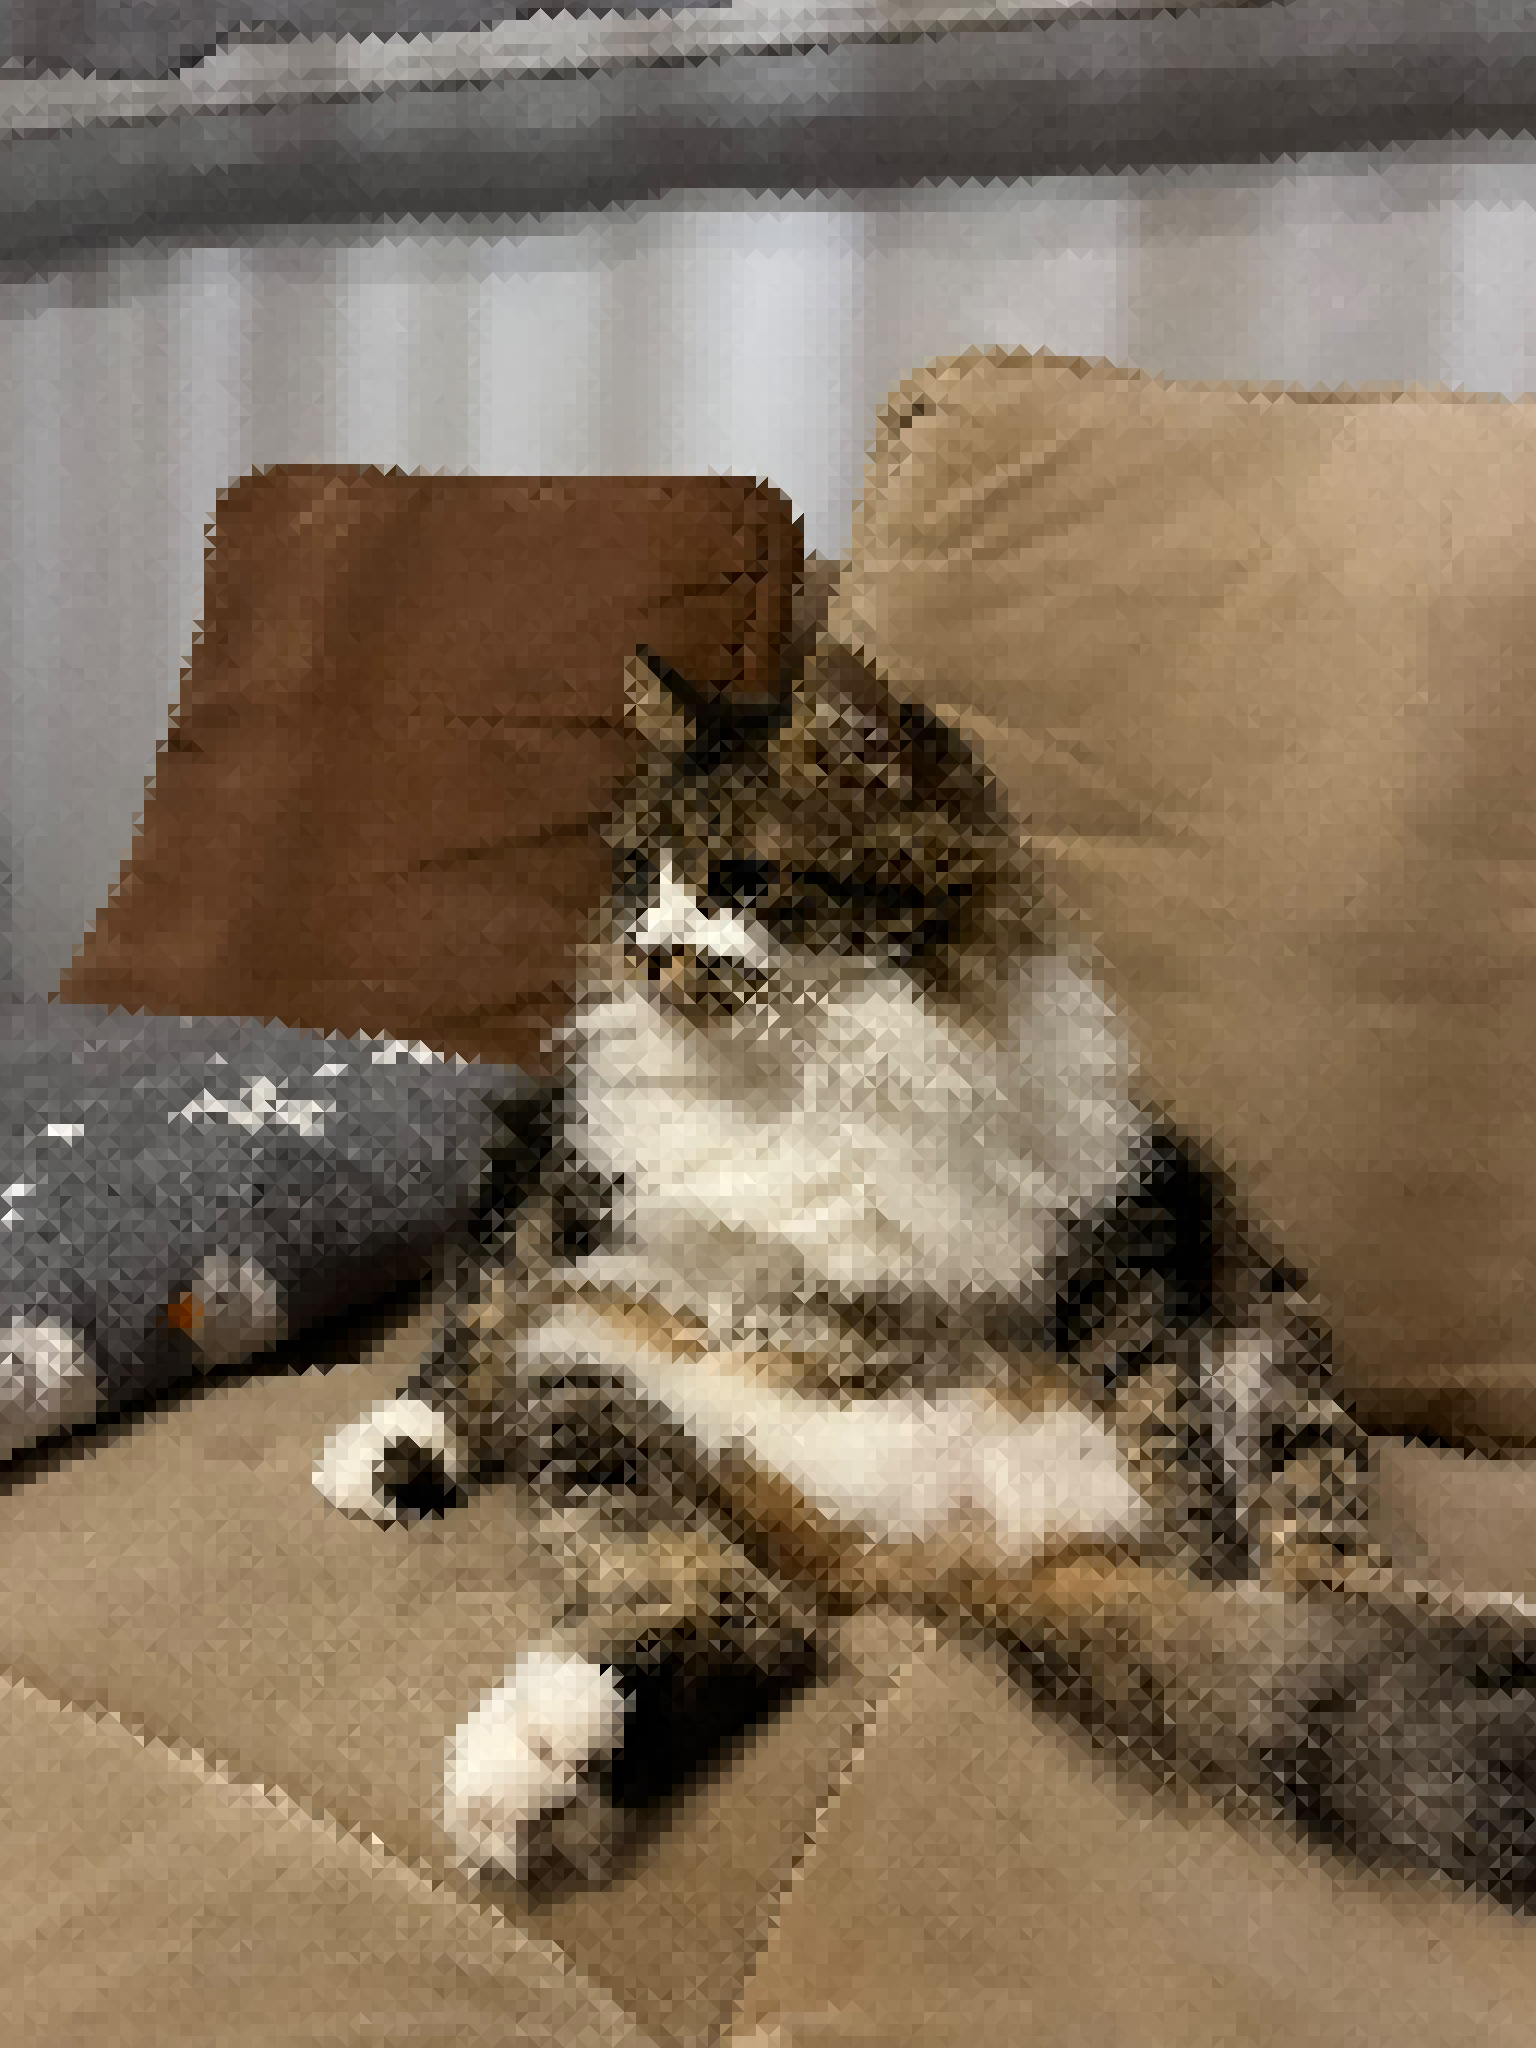
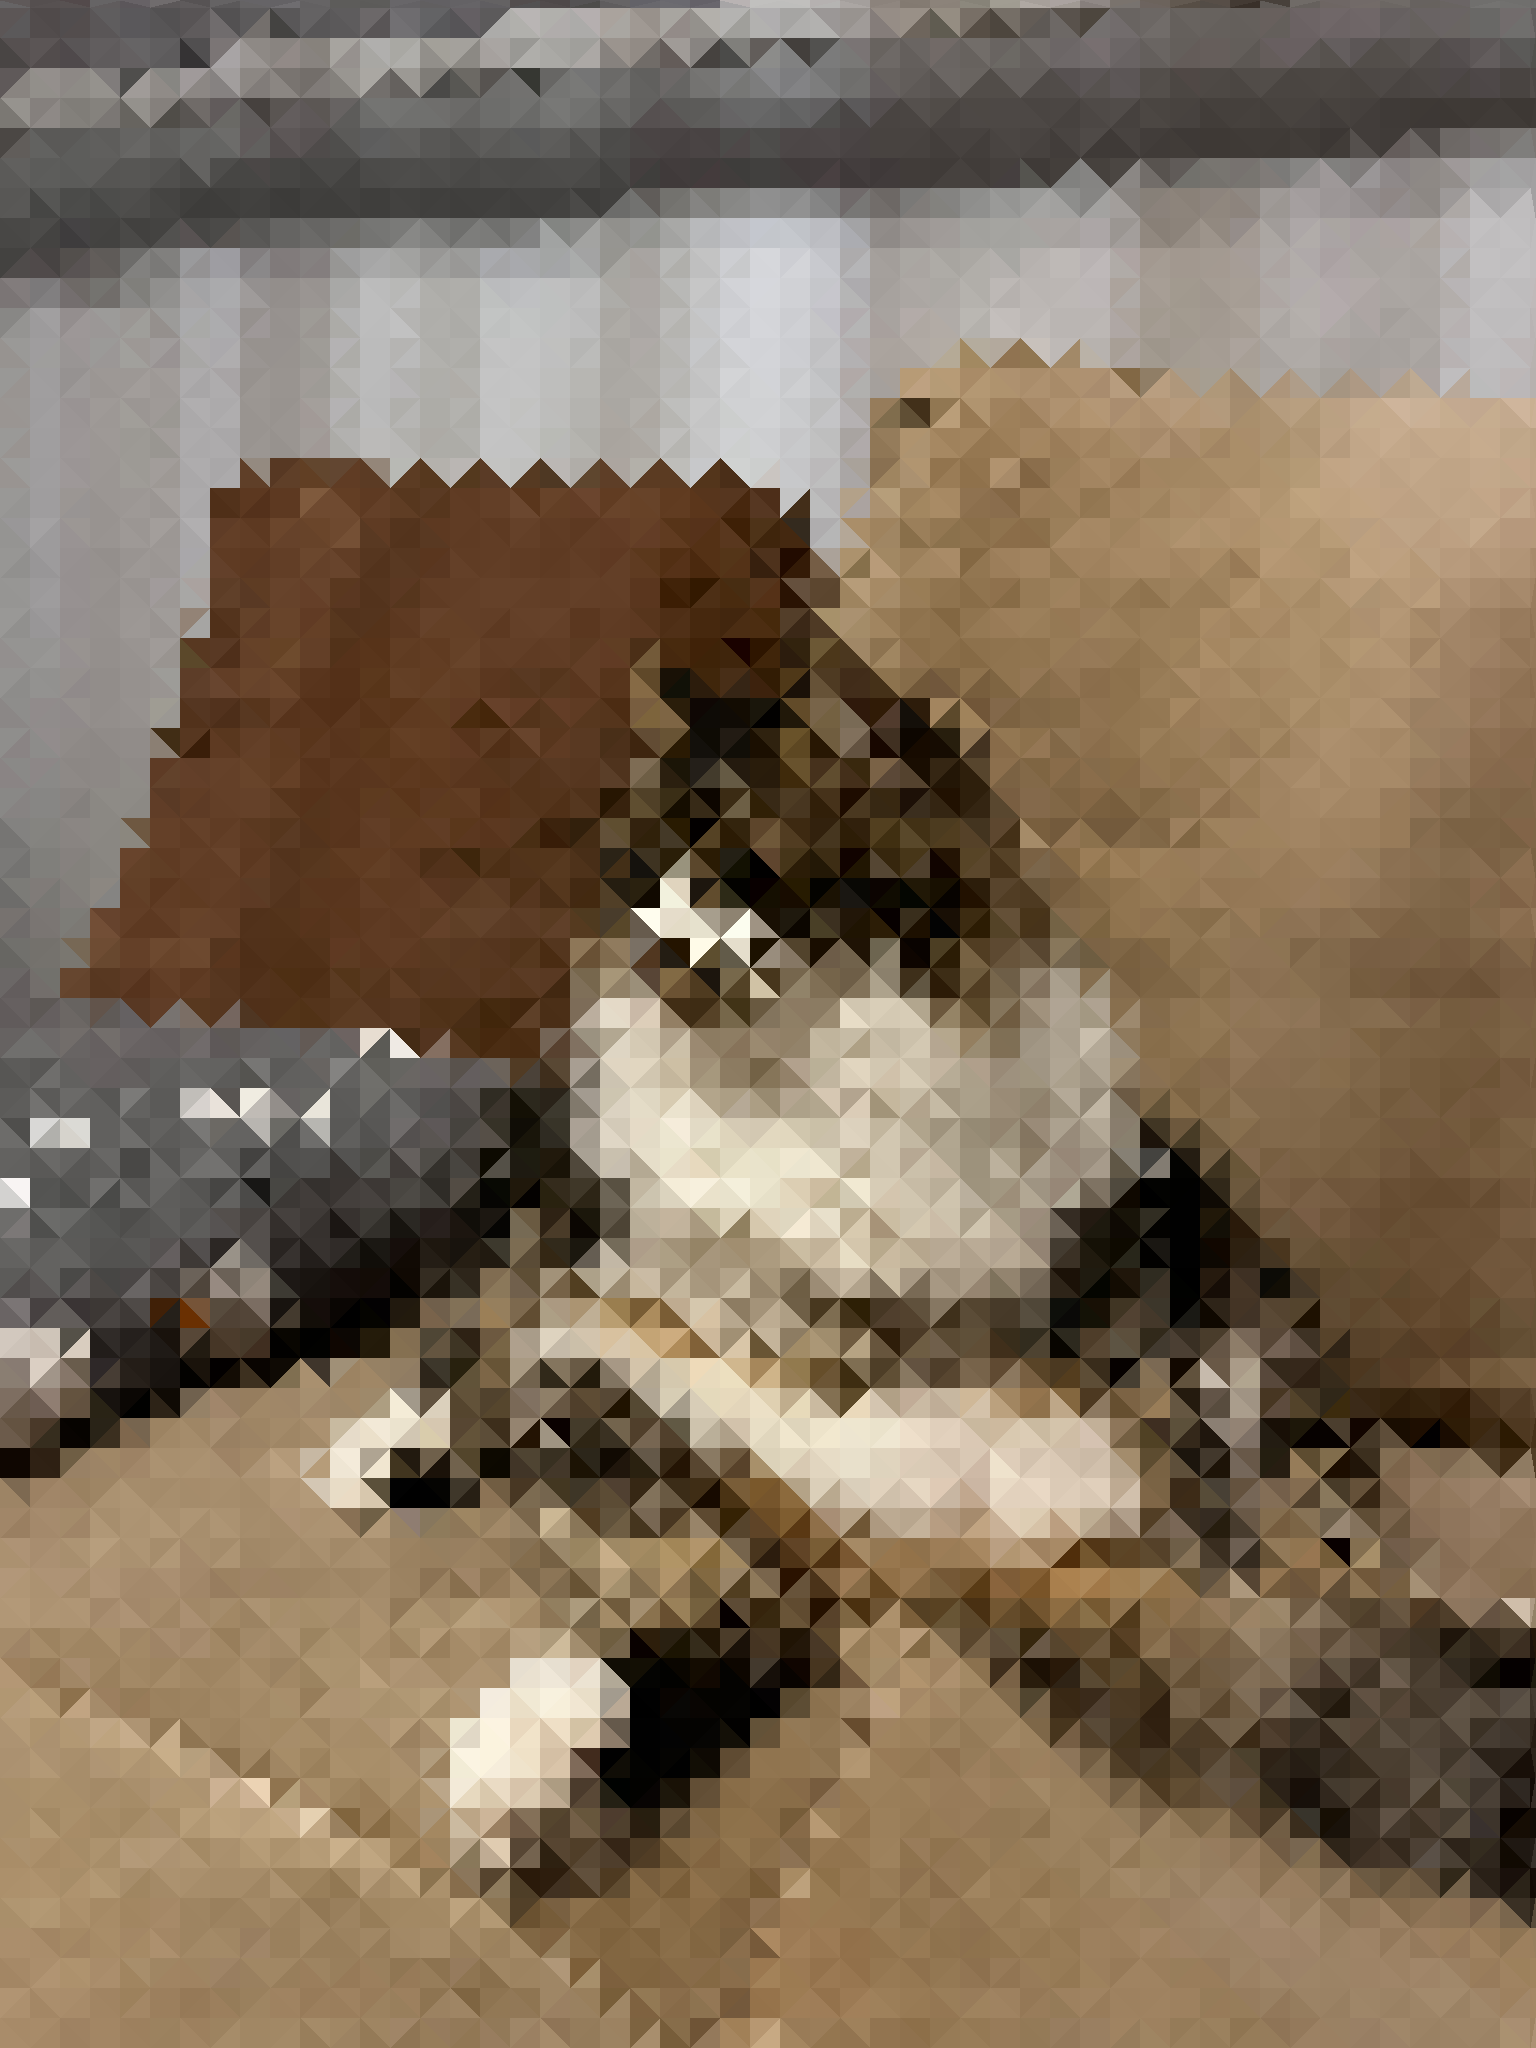
modif4

diff --git a/src/exos_perso.cpp b/src/exos_perso.cpp
@@ -1,4 +1,3 @@
-
 #include <sil/sil.hpp>
 #include <glm/glm.hpp>
 #include <cmath>
@@ -315,7 +314,7 @@ void low_poly(sil::Image const& image)
     sil::Image nouvelle_image{image.width(), image.height()};
 
     // Taille des cellules de la grille qui sert à construire les triangles : une petite valeur produit davantage de triangles et conserve plus de détails
-    int const taille{12};
+    int const taille{30};
 
     // Parcours de l'image par cellules carrées de taille "taille"
     for (int x{0}; x < image.width(); x += taille)

diff --git a/src/main.cpp b/src/main.cpp
@@ -504,7 +504,6 @@ int main()
         vision_thermique(image);
     }
  
-        
 
     return 0;
 }
